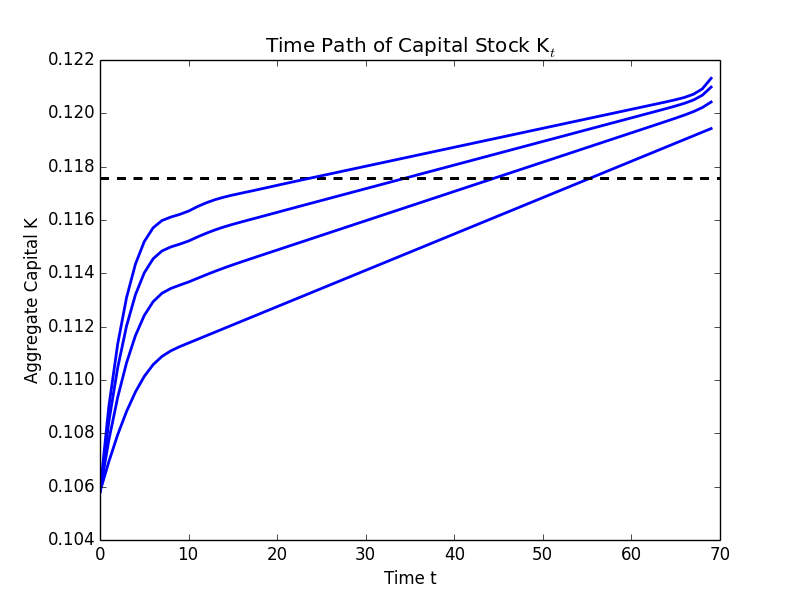
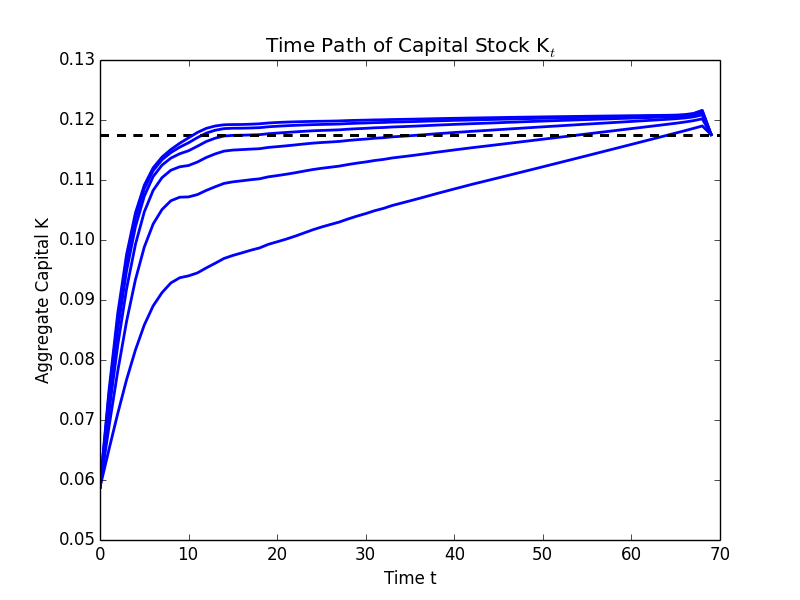
SS

diff --git a/Python/olg_endo_lab/TPI.py b/Python/olg_endo_lab/TPI.py
@@ -106,11 +106,102 @@ def borrowing_constraints(K_dist, w, r, e, n):
     else:
         return False
 
+
+def get_Y(K_now, N_now):
+    '''
+    Parameters: Aggregate capital, Aggregate labor
+
+    Returns:    Aggregate output
+    '''
+    Y_now = A * (K_now ** alpha) * (N_now ** (1 - alpha))
+    return Y_now
+
+
+def get_w(Y_now, N_now):
+    '''
+    Parameters: Aggregate output, Aggregate labor
+
+    Returns:    Returns to labor
+    '''
+    w_now = (1 - alpha) * Y_now / N_now
+    return w_now
+
+
+def get_r(Y_now, K_now):
+    '''
+    Parameters: Aggregate output, Aggregate capital
+
+    Returns:    Returns to capital
+    '''
+    r_now = (alpha * Y_now / K_now) - delta
+    return r_now
+
+
+def get_N(e, n):
+    '''
+    Parameters: e, n
+
+    Returns:    Aggregate labor
+    '''
+    N_now = np.mean(e * n)
+    return N_now
+
+
+def MUc(c):
+
+    """
+    Parameters: Consumption
+
+    Returns:    Marginal Utility of Consumption
+    """
+
+    return c**(-sigma)
+
+
+def MUn(n):
+    '''
+    Parameters: Labor
+
+    Returns:    Marginal Utility of Labor
+    '''
+    output = - chi * ((ltilde-n) ** (-eta))
+    return output
+
+
+def get_N_init(e, N_guess, K1_2, K2_2):
+    '''
+    Parameters:
+        w        = wage rate (scalar)
+        r        = rental rate (scalar)
+        e        = distribution of abilities (SxJ array)
+        N_guess  = distribution of labor (SxJ array)
+        K1_2     = distribution of capital in period t (S x J array)
+        K2_2     = distribution of capital in period t+1 (S x J array)
+
+    Returns:
+        Value of Euler error.
+    '''
+    N_guess = N_guess.reshape(S, J)
+    K = K2_2[:-1, :].mean()
+    N = get_N(e, N_guess)
+    Y = get_Y(K, N)
+    w = get_w(Y, N)
+    r = get_r(Y, K)
+    euler = MUc((1 + r)*K1_2 + w * e * N_guess - K2_2) * w * e + MUn(N_guess)
+    euler = euler.flatten()
+    return euler
+
+
 T = 70
 # r = (np.random.rand(S-1,J) + .5) * .2
 initial_K = .9*Kssmat
 K0 = initial_K.mean()
-initial_N = .9*Nssmat
+
+K1_2init = np.array(list(np.zeros(J).reshape(1, J)) + list(initial_K))
+K2_2init = np.array(list(initial_K) + list(np.zeros(J).reshape(1, J)))
+initial_N_guess = .9*Nssmat.flatten()
+get_N_init_zero = lambda x: get_N_init(e, x, K1_2init, K2_2init)
+initial_N = opt.fsolve(get_N_init_zero, initial_N_guess).reshape(S, J)
 N0 = initial_N.mean()
 
 problem = borrowing_constraints(initial_K, wss, rss, e, Nssmat)
@@ -154,27 +245,6 @@ seconds      = Seconds needed to find the steady state, less the number
                of hours and minutes
 ------------------------------------------------------------------------
 '''
-
-
-def MUc(c):
-
-    """
-    Parameters: Consumption
-
-    Returns:    Marginal Utility of Consumption
-    """
-
-    return c**(-sigma)
-
-
-def MUn(n):
-    '''
-    Parameters: Labor
-
-    Returns:    Marginal Utility of Labor
-    '''
-    output = - chi * ((ltilde-n) ** (-eta))
-    return output
 
 
 def Euler_justcapital(w1, r1, w2, r2, e, n, K1, K2, K3):
@@ -279,9 +349,9 @@ while (TPIiter < TPImaxiter) and (TPIdist >= TPImindist):
             N_mat[t-1:t+S-1, :, j] += np.diag(N_vec)
 
     K_mat[0, :, :] = initial_K
-    # K_mat[T-1, :, :] = Kssmat.reshape(S-1, J)
+    K_mat[T-1, :, :] = Kssmat.reshape(S-1, J)
     # N_mat[0, :, :] = initial_N
-    # N_mat[T-1, :, :] = Nssmat.reshape(S, J)
+    N_mat[T-1, :, :] = Nssmat.reshape(S, J)
     Knew = K_mat[:T, :, :].mean(2).mean(1)
     Nnew = N_mat[:T,:,:].mean(2).mean(1)
     TPIiter += 1
